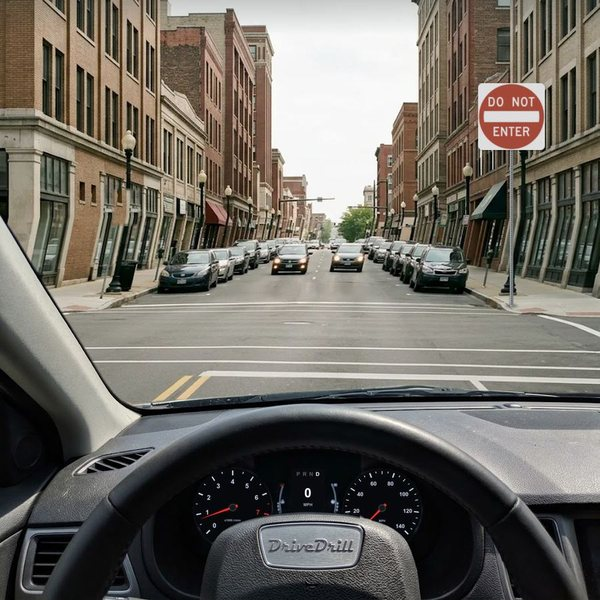
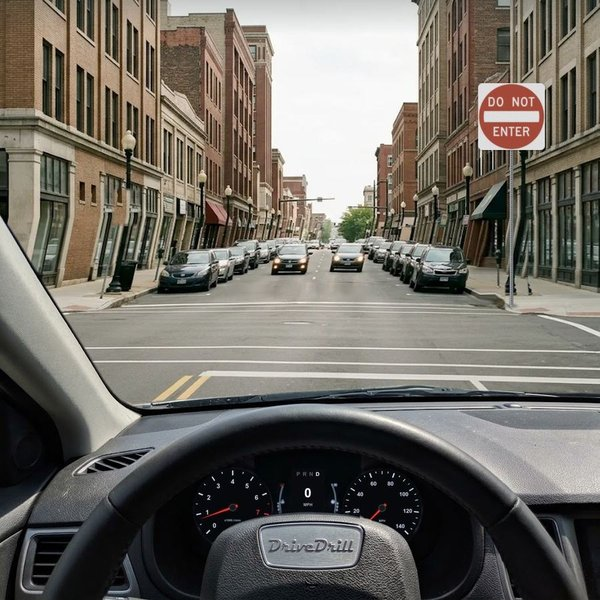
Show every store and driver's-seat picture whole (owner: half cut off and stretched photos)
- Car & Motorcycle cards and the road-scene card (home EN + ES): store pictures shown whole at 540x1173, framed on the card; no crop to the headline, no navy bars
- 'In pictures' strip: a grid at every width (2 per row on phones), no half-cut pictures at the screen edge
- Signs from the driver's seat: the 12 pictures load straight away, grey placeholder instead of a blank white tile
- Do Not Enter picture: leaning storefront pillars (warp in the generated scene) straightened, new 600 px jpg + webp
- sitemap lastmod via tools/build_state_pages.py

Changed region(s): [[0.78, 0.36, 1.0, 0.54]]

diff --git a/es/index.html b/es/index.html
@@ -125,18 +125,18 @@
       <h2 class="sec-title" id="signs-title">Señales vistas desde el volante.</h2>
       <p class="sec-sub">90 señales de tránsito como las ves al manejar. Encuentra la señal y responde.</p>
       <ul class="pov">
-        <li><figure><picture><source type="image/webp" srcset="/img/pov/R1-1_stop.webp"><img src="/img/pov/R1-1_stop.jpg" width="600" height="600" alt="La señal «Alto», vista desde el asiento del conductor." loading="lazy" decoding="async"></picture><figcaption>Alto</figcaption></figure></li>
-        <li><figure><picture><source type="image/webp" srcset="/img/pov/R1-2_yield.webp"><img src="/img/pov/R1-2_yield.jpg" width="600" height="600" alt="La señal «Ceda el paso», vista desde el asiento del conductor." loading="lazy" decoding="async"></picture><figcaption>Ceda el paso</figcaption></figure></li>
-        <li><figure><picture><source type="image/webp" srcset="/img/pov/R10-12_left_turn_yield_on_green.webp"><img src="/img/pov/R10-12_left_turn_yield_on_green.jpg" width="600" height="600" alt="La señal «Vuelta a la izquierda: ceda el paso con luz verde», vista desde el asiento del conductor." loading="lazy" decoding="async"></picture><figcaption>Vuelta a la izquierda: ceda el paso con luz verde</figcaption></figure></li>
-        <li><figure><picture><source type="image/webp" srcset="/img/pov/R2-1_speed_limit_25.webp"><img src="/img/pov/R2-1_speed_limit_25.jpg" width="600" height="600" alt="La señal «Límite de velocidad 25», vista desde el asiento del conductor." loading="lazy" decoding="async"></picture><figcaption>Límite de velocidad 25</figcaption></figure></li>
-        <li><figure><picture><source type="image/webp" srcset="/img/pov/R5-1_do_not_enter.webp"><img src="/img/pov/R5-1_do_not_enter.jpg" width="600" height="600" alt="La señal «No entre», vista desde el asiento del conductor." loading="lazy" decoding="async"></picture><figcaption>No entre</figcaption></figure></li>
-        <li><figure><picture><source type="image/webp" srcset="/img/pov/R5-1a_wrong_way.webp"><img src="/img/pov/R5-1a_wrong_way.jpg" width="600" height="600" alt="La señal «Sentido contrario», vista desde el asiento del conductor." loading="lazy" decoding="async"></picture><figcaption>Sentido contrario</figcaption></figure></li>
-        <li><figure><picture><source type="image/webp" srcset="/img/pov/W1-2R_W13-1P_curve_right_35_mph.webp"><img src="/img/pov/W1-2R_W13-1P_curve_right_35_mph.jpg" width="600" height="600" alt="La señal «Curva a la derecha, 35 mph», vista desde el asiento del conductor." loading="lazy" decoding="async"></picture><figcaption>Curva a la derecha, 35 mph</figcaption></figure></li>
-        <li><figure><picture><source type="image/webp" srcset="/img/pov/W10-1_railroad_advance_warning.webp"><img src="/img/pov/W10-1_railroad_advance_warning.jpg" width="600" height="600" alt="La señal «Cruce de ferrocarril adelante», vista desde el asiento del conductor." loading="lazy" decoding="async"></picture><figcaption>Cruce de ferrocarril adelante</figcaption></figure></li>
-        <li><figure><picture><source type="image/webp" srcset="/img/pov/W3-1_stop_ahead.webp"><img src="/img/pov/W3-1_stop_ahead.jpg" width="600" height="600" alt="La señal «Alto adelante», vista desde el asiento del conductor." loading="lazy" decoding="async"></picture><figcaption>Alto adelante</figcaption></figure></li>
-        <li><figure><picture><source type="image/webp" srcset="/img/pov/W4-2R_lane_ends.webp"><img src="/img/pov/W4-2R_lane_ends.jpg" width="600" height="600" alt="La señal «Termina el carril», vista desde el asiento del conductor." loading="lazy" decoding="async"></picture><figcaption>Termina el carril</figcaption></figure></li>
-        <li><figure><picture><source type="image/webp" srcset="/img/pov/W20-7_flagger.webp"><img src="/img/pov/W20-7_flagger.jpg" width="600" height="600" alt="La señal «Abanderado adelante», vista desde el asiento del conductor." loading="lazy" decoding="async"></picture><figcaption>Abanderado adelante</figcaption></figure></li>
-        <li><figure><picture><source type="image/webp" srcset="/img/pov/S1-1_school.webp"><img src="/img/pov/S1-1_school.jpg" width="600" height="600" alt="La señal «Cruce escolar», vista desde el asiento del conductor." loading="lazy" decoding="async"></picture><figcaption>Cruce escolar</figcaption></figure></li>
+        <li><figure><picture><source type="image/webp" srcset="/img/pov/R1-1_stop.webp"><img src="/img/pov/R1-1_stop.jpg" width="600" height="600" alt="La señal «Alto», vista desde el asiento del conductor." loading="eager" decoding="async"></picture><figcaption>Alto</figcaption></figure></li>
+        <li><figure><picture><source type="image/webp" srcset="/img/pov/R1-2_yield.webp"><img src="/img/pov/R1-2_yield.jpg" width="600" height="600" alt="La señal «Ceda el paso», vista desde el asiento del conductor." loading="eager" decoding="async"></picture><figcaption>Ceda el paso</figcaption></figure></li>
+        <li><figure><picture><source type="image/webp" srcset="/img/pov/R10-12_left_turn_yield_on_green.webp"><img src="/img/pov/R10-12_left_turn_yield_on_green.jpg" width="600" height="600" alt="La señal «Vuelta a la izquierda: ceda el paso con luz verde», vista desde el asiento del conductor." loading="eager" decoding="async"></picture><figcaption>Vuelta a la izquierda: ceda el paso con luz verde</figcaption></figure></li>
+        <li><figure><picture><source type="image/webp" srcset="/img/pov/R2-1_speed_limit_25.webp"><img src="/img/pov/R2-1_speed_limit_25.jpg" width="600" height="600" alt="La señal «Límite de velocidad 25», vista desde el asiento del conductor." loading="eager" decoding="async"></picture><figcaption>Límite de velocidad 25</figcaption></figure></li>
+        <li><figure><picture><source type="image/webp" srcset="/img/pov/R5-1_do_not_enter.webp"><img src="/img/pov/R5-1_do_not_enter.jpg" width="600" height="600" alt="La señal «No entre», vista desde el asiento del conductor." loading="eager" decoding="async"></picture><figcaption>No entre</figcaption></figure></li>
+        <li><figure><picture><source type="image/webp" srcset="/img/pov/R5-1a_wrong_way.webp"><img src="/img/pov/R5-1a_wrong_way.jpg" width="600" height="600" alt="La señal «Sentido contrario», vista desde el asiento del conductor." loading="eager" decoding="async"></picture><figcaption>Sentido contrario</figcaption></figure></li>
+        <li><figure><picture><source type="image/webp" srcset="/img/pov/W1-2R_W13-1P_curve_right_35_mph.webp"><img src="/img/pov/W1-2R_W13-1P_curve_right_35_mph.jpg" width="600" height="600" alt="La señal «Curva a la derecha, 35 mph», vista desde el asiento del conductor." loading="eager" decoding="async"></picture><figcaption>Curva a la derecha, 35 mph</figcaption></figure></li>
+        <li><figure><picture><source type="image/webp" srcset="/img/pov/W10-1_railroad_advance_warning.webp"><img src="/img/pov/W10-1_railroad_advance_warning.jpg" width="600" height="600" alt="La señal «Cruce de ferrocarril adelante», vista desde el asiento del conductor." loading="eager" decoding="async"></picture><figcaption>Cruce de ferrocarril adelante</figcaption></figure></li>
+        <li><figure><picture><source type="image/webp" srcset="/img/pov/W3-1_stop_ahead.webp"><img src="/img/pov/W3-1_stop_ahead.jpg" width="600" height="600" alt="La señal «Alto adelante», vista desde el asiento del conductor." loading="eager" decoding="async"></picture><figcaption>Alto adelante</figcaption></figure></li>
+        <li><figure><picture><source type="image/webp" srcset="/img/pov/W4-2R_lane_ends.webp"><img src="/img/pov/W4-2R_lane_ends.jpg" width="600" height="600" alt="La señal «Termina el carril», vista desde el asiento del conductor." loading="eager" decoding="async"></picture><figcaption>Termina el carril</figcaption></figure></li>
+        <li><figure><picture><source type="image/webp" srcset="/img/pov/W20-7_flagger.webp"><img src="/img/pov/W20-7_flagger.jpg" width="600" height="600" alt="La señal «Abanderado adelante», vista desde el asiento del conductor." loading="eager" decoding="async"></picture><figcaption>Abanderado adelante</figcaption></figure></li>
+        <li><figure><picture><source type="image/webp" srcset="/img/pov/S1-1_school.webp"><img src="/img/pov/S1-1_school.jpg" width="600" height="600" alt="La señal «Cruce escolar», vista desde el asiento del conductor." loading="eager" decoding="async"></picture><figcaption>Cruce escolar</figcaption></figure></li>
       </ul>
     </div>
   </section>

diff --git a/index.html b/index.html
@@ -133,18 +133,18 @@
       <h2 class="sec-title" id="signs-title">Signs from the driver's seat.</h2>
       <p class="sec-sub">90 road signs the way you see them behind the wheel. Spot the sign, then answer.</p>
       <ul class="pov">
-        <li><figure><picture><source type="image/webp" srcset="/img/pov/R1-1_stop.webp"><img src="/img/pov/R1-1_stop.jpg" width="600" height="600" alt="The Stop sign, seen from the driver's seat." loading="lazy" decoding="async"></picture><figcaption>Stop</figcaption></figure></li>
-        <li><figure><picture><source type="image/webp" srcset="/img/pov/R1-2_yield.webp"><img src="/img/pov/R1-2_yield.jpg" width="600" height="600" alt="The Yield sign, seen from the driver's seat." loading="lazy" decoding="async"></picture><figcaption>Yield</figcaption></figure></li>
-        <li><figure><picture><source type="image/webp" srcset="/img/pov/R10-12_left_turn_yield_on_green.webp"><img src="/img/pov/R10-12_left_turn_yield_on_green.jpg" width="600" height="600" alt="The Left turn yield on green sign, seen from the driver's seat." loading="lazy" decoding="async"></picture><figcaption>Left turn yield on green</figcaption></figure></li>
-        <li><figure><picture><source type="image/webp" srcset="/img/pov/R2-1_speed_limit_25.webp"><img src="/img/pov/R2-1_speed_limit_25.jpg" width="600" height="600" alt="The Speed limit 25 sign, seen from the driver's seat." loading="lazy" decoding="async"></picture><figcaption>Speed limit 25</figcaption></figure></li>
-        <li><figure><picture><source type="image/webp" srcset="/img/pov/R5-1_do_not_enter.webp"><img src="/img/pov/R5-1_do_not_enter.jpg" width="600" height="600" alt="The Do not enter sign, seen from the driver's seat." loading="lazy" decoding="async"></picture><figcaption>Do not enter</figcaption></figure></li>
-        <li><figure><picture><source type="image/webp" srcset="/img/pov/R5-1a_wrong_way.webp"><img src="/img/pov/R5-1a_wrong_way.jpg" width="600" height="600" alt="The Wrong way sign, seen from the driver's seat." loading="lazy" decoding="async"></picture><figcaption>Wrong way</figcaption></figure></li>
-        <li><figure><picture><source type="image/webp" srcset="/img/pov/W1-2R_W13-1P_curve_right_35_mph.webp"><img src="/img/pov/W1-2R_W13-1P_curve_right_35_mph.jpg" width="600" height="600" alt="The Curve right, 35 mph sign, seen from the driver's seat." loading="lazy" decoding="async"></picture><figcaption>Curve right, 35 mph</figcaption></figure></li>
-        <li><figure><picture><source type="image/webp" srcset="/img/pov/W10-1_railroad_advance_warning.webp"><img src="/img/pov/W10-1_railroad_advance_warning.jpg" width="600" height="600" alt="The Railroad crossing ahead sign, seen from the driver's seat." loading="lazy" decoding="async"></picture><figcaption>Railroad crossing ahead</figcaption></figure></li>
-        <li><figure><picture><source type="image/webp" srcset="/img/pov/W3-1_stop_ahead.webp"><img src="/img/pov/W3-1_stop_ahead.jpg" width="600" height="600" alt="The Stop ahead sign, seen from the driver's seat." loading="lazy" decoding="async"></picture><figcaption>Stop ahead</figcaption></figure></li>
-        <li><figure><picture><source type="image/webp" srcset="/img/pov/W4-2R_lane_ends.webp"><img src="/img/pov/W4-2R_lane_ends.jpg" width="600" height="600" alt="The Lane ends sign, seen from the driver's seat." loading="lazy" decoding="async"></picture><figcaption>Lane ends</figcaption></figure></li>
-        <li><figure><picture><source type="image/webp" srcset="/img/pov/W20-7_flagger.webp"><img src="/img/pov/W20-7_flagger.jpg" width="600" height="600" alt="The Flagger ahead sign, seen from the driver's seat." loading="lazy" decoding="async"></picture><figcaption>Flagger ahead</figcaption></figure></li>
-        <li><figure><picture><source type="image/webp" srcset="/img/pov/S1-1_school.webp"><img src="/img/pov/S1-1_school.jpg" width="600" height="600" alt="The School crossing sign, seen from the driver's seat." loading="lazy" decoding="async"></picture><figcaption>School crossing</figcaption></figure></li>
+        <li><figure><picture><source type="image/webp" srcset="/img/pov/R1-1_stop.webp"><img src="/img/pov/R1-1_stop.jpg" width="600" height="600" alt="The Stop sign, seen from the driver's seat." loading="eager" decoding="async"></picture><figcaption>Stop</figcaption></figure></li>
+        <li><figure><picture><source type="image/webp" srcset="/img/pov/R1-2_yield.webp"><img src="/img/pov/R1-2_yield.jpg" width="600" height="600" alt="The Yield sign, seen from the driver's seat." loading="eager" decoding="async"></picture><figcaption>Yield</figcaption></figure></li>
+        <li><figure><picture><source type="image/webp" srcset="/img/pov/R10-12_left_turn_yield_on_green.webp"><img src="/img/pov/R10-12_left_turn_yield_on_green.jpg" width="600" height="600" alt="The Left turn yield on green sign, seen from the driver's seat." loading="eager" decoding="async"></picture><figcaption>Left turn yield on green</figcaption></figure></li>
+        <li><figure><picture><source type="image/webp" srcset="/img/pov/R2-1_speed_limit_25.webp"><img src="/img/pov/R2-1_speed_limit_25.jpg" width="600" height="600" alt="The Speed limit 25 sign, seen from the driver's seat." loading="eager" decoding="async"></picture><figcaption>Speed limit 25</figcaption></figure></li>
+        <li><figure><picture><source type="image/webp" srcset="/img/pov/R5-1_do_not_enter.webp"><img src="/img/pov/R5-1_do_not_enter.jpg" width="600" height="600" alt="The Do not enter sign, seen from the driver's seat." loading="eager" decoding="async"></picture><figcaption>Do not enter</figcaption></figure></li>
+        <li><figure><picture><source type="image/webp" srcset="/img/pov/R5-1a_wrong_way.webp"><img src="/img/pov/R5-1a_wrong_way.jpg" width="600" height="600" alt="The Wrong way sign, seen from the driver's seat." loading="eager" decoding="async"></picture><figcaption>Wrong way</figcaption></figure></li>
+        <li><figure><picture><source type="image/webp" srcset="/img/pov/W1-2R_W13-1P_curve_right_35_mph.webp"><img src="/img/pov/W1-2R_W13-1P_curve_right_35_mph.jpg" width="600" height="600" alt="The Curve right, 35 mph sign, seen from the driver's seat." loading="eager" decoding="async"></picture><figcaption>Curve right, 35 mph</figcaption></figure></li>
+        <li><figure><picture><source type="image/webp" srcset="/img/pov/W10-1_railroad_advance_warning.webp"><img src="/img/pov/W10-1_railroad_advance_warning.jpg" width="600" height="600" alt="The Railroad crossing ahead sign, seen from the driver's seat." loading="eager" decoding="async"></picture><figcaption>Railroad crossing ahead</figcaption></figure></li>
+        <li><figure><picture><source type="image/webp" srcset="/img/pov/W3-1_stop_ahead.webp"><img src="/img/pov/W3-1_stop_ahead.jpg" width="600" height="600" alt="The Stop ahead sign, seen from the driver's seat." loading="eager" decoding="async"></picture><figcaption>Stop ahead</figcaption></figure></li>
+        <li><figure><picture><source type="image/webp" srcset="/img/pov/W4-2R_lane_ends.webp"><img src="/img/pov/W4-2R_lane_ends.jpg" width="600" height="600" alt="The Lane ends sign, seen from the driver's seat." loading="eager" decoding="async"></picture><figcaption>Lane ends</figcaption></figure></li>
+        <li><figure><picture><source type="image/webp" srcset="/img/pov/W20-7_flagger.webp"><img src="/img/pov/W20-7_flagger.jpg" width="600" height="600" alt="The Flagger ahead sign, seen from the driver's seat." loading="eager" decoding="async"></picture><figcaption>Flagger ahead</figcaption></figure></li>
+        <li><figure><picture><source type="image/webp" srcset="/img/pov/S1-1_school.webp"><img src="/img/pov/S1-1_school.jpg" width="600" height="600" alt="The School crossing sign, seen from the driver's seat." loading="eager" decoding="async"></picture><figcaption>School crossing</figcaption></figure></li>
       </ul>
     </div>
   </section>

diff --git a/style.css b/style.css
@@ -497,3 +497,19 @@ code { background: var(--surface); border: 1px solid var(--line); border-radius:
 .lede.notice { border-left-color: var(--warn); }
 .explain { background: var(--surface); box-shadow: inset 0 0 0 1px var(--line); }
 .explain .verdict { color: var(--ink); }
+
+/* 2026-11-21 (owner: "half cut off and stretched photos"): store pictures in the Car & Motorcycle cards and the
+   road-scene card are shown WHOLE at their true 540x1173 shape, framed on the card - never cropped, no navy bars. */
+.lane-art-wrap, .road-art { height: auto; max-height: none; overflow: visible; background: none; display: flex; justify-content: center; }
+.lane-art-wrap { padding: 22px 22px 0; }
+.road-art { padding: 8px 24px 28px; }
+.lane-art-wrap picture, .road-art picture { display: block; width: min(100%, 260px); }
+.lane-art-wrap img, .road-art img { display: block; width: 100%; max-width: none; height: auto; margin: 0; border-radius: 18px; box-shadow: 0 0 0 1px var(--line), 0 16px 32px -20px rgba(13, 30, 80, .45); }
+@media (min-width: 760px) { .road-art { padding: 28px 32px; } .road-art picture { width: min(100%, 280px); } }
+/* a driver's-seat picture that has not loaded yet shows a grey road-tone box, never a blank white tile */
+.pov img { background: #8A929C; }
+/* 2026-11-21: the store-picture strip is a grid at every width (no sideways strip with half-cut pictures on phones) */
+.shots-wrap { margin: 0; }
+.shots { display: grid; grid-template-columns: repeat(2, minmax(0, 1fr)); gap: 14px; overflow: visible; padding: 4px 0 18px; scroll-snap-type: none; }
+.shots li { width: auto; }
+@media (min-width: 760px) { .shots { grid-template-columns: repeat(3, minmax(0, 300px)); justify-content: center; gap: 28px 32px; } }
